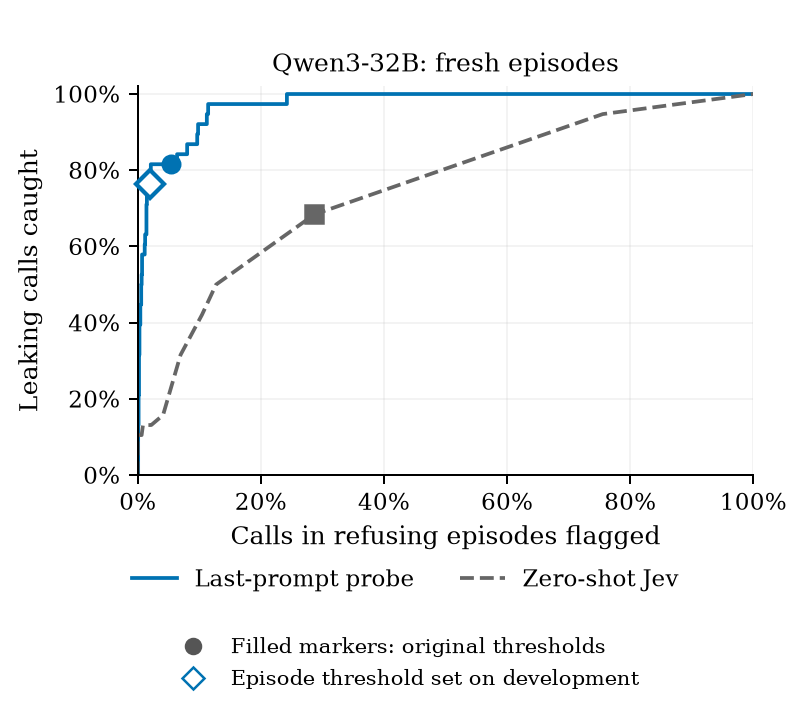
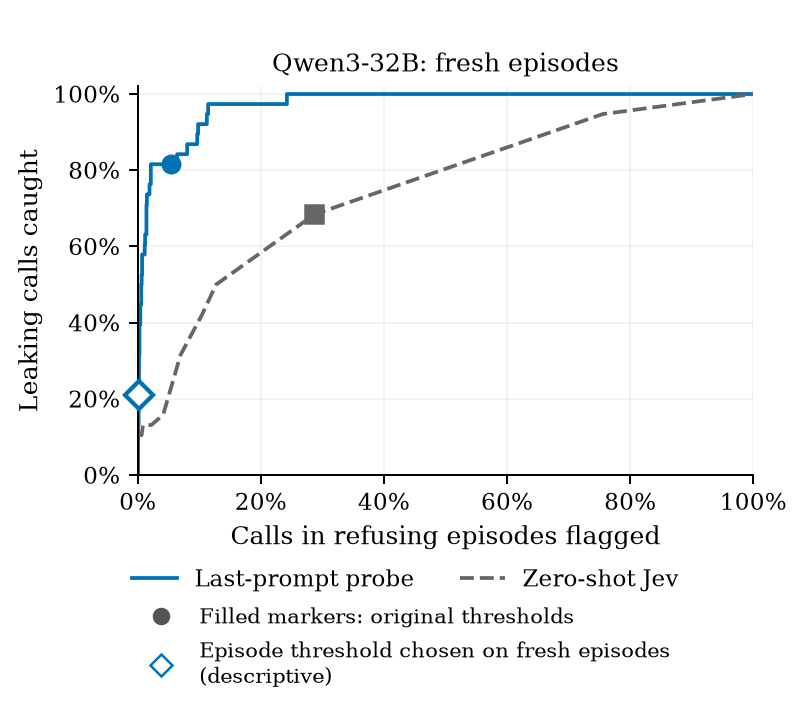
Use final descriptive episode calibration and fit its table

diff --git a/paper-arxiv/figures/src/make_main_panels.py b/paper-arxiv/figures/src/make_main_panels.py
@@ -13,7 +13,7 @@ ROOT = Path(__file__).resolve().parents[3]
 OUT = ROOT / 'paper-arxiv/figures'
 TRAJECTORY = ROOT / 'runs/20261026-2254-e05-arxiv-score-trajectories/metrics.json'
 ALARMS = ROOT / 'runs/20261026-2252-e05-arxiv-alarm-tradeoffs'
-EPISODE = ROOT / 'runs/20261027-0047-e05-arxiv-episode-calibration/metrics.json'
+EPISODE = ROOT / 'runs/20261027-0049-e05-arxiv-episode-calibration-descriptive/metrics.json'
 
 
 def save(fig, stem, sources, rows):
@@ -71,7 +71,7 @@ def alarms():
                 color=color, ls=ls, lw=1.5, label='Zero-shot Jev' if name=='Jev' else name)
         ax.plot(op['refusing_call_alarm'], op['leaking_call_alarm'], marker=marker, color=color, ms=7)
     episode = json.loads(EPISODE.read_text())['qwen_probe']
-    assert episode['calibration_status'] == 'development_refusing_calibration'
+    assert episode['calibration_status'] == 'descriptive_fresh_refusing_calibration'
     point = episode['episode_calibrated']
     ax.plot(point['refusing_calls']['rate'], point['leaking_calls']['rate'],
             marker='D', mfc='white', mec=MODEL_COLORS['qwen'], mew=1.7, ms=8,
@@ -85,10 +85,10 @@ def alarms():
         Line2D([], [], marker='o', color='#555555', ls='none',
                label='Filled markers: original thresholds'),
         Line2D([], [], marker='D', mfc='white', mec=MODEL_COLORS['qwen'], ls='none',
-               label='Episode threshold set on development')],
+               label='Episode threshold chosen on fresh episodes\n(descriptive)')],
         loc='lower center', bbox_to_anchor=(.5,.015), ncol=1, frameon=False, fontsize=8.5)
     rows.append(dict(panel='Qwen: fresh episodes',
-                     detector='Last-prompt probe: development episode-calibrated marker',
+                     detector='Last-prompt probe: descriptive episode-calibrated marker',
                      threshold_offset=episode['episode_threshold']-episode['original_threshold'],
                      leaks_caught=point['leaking_calls']['rate'],
                      refusing_alarm=point['refusing_calls']['rate']))

diff --git a/paper-arxiv/tables/episode_calibration.tex b/paper-arxiv/tables/episode_calibration.tex
@@ -1,5 +1,5 @@
 % Generated by generate_tables.py; edit registry table configuration.
-\begin{tabular}{@{}llrrrrrrr@{}}
+\begin{tabular}{@{}>{\raggedright\arraybackslash}p{0.13\linewidth}>{\raggedright\arraybackslash}p{0.1\linewidth}>{\raggedright\arraybackslash}p{0.088\linewidth}>{\raggedright\arraybackslash}p{0.088\linewidth}>{\raggedright\arraybackslash}p{0.088\linewidth}>{\raggedright\arraybackslash}p{0.088\linewidth}>{\raggedright\arraybackslash}p{0.088\linewidth}>{\raggedright\arraybackslash}p{0.088\linewidth}>{\raggedright\arraybackslash}p{0.088\linewidth}@{}}
 \toprule
 Detector & Cutoff & Precision & Leak calls & Leak eps. & Ref. calls & Ref. eps. & Ctrl. calls & Ctrl. eps. \\
 \midrule

diff --git a/paper-arxiv/generate_tables.py b/paper-arxiv/generate_tables.py
@@ -8,6 +8,7 @@ NAMES=['datasets','behaviour_by_scenario','labels','replay','fresh','robust_call
 WRAPPED_WIDTHS = {
     'alarms': [.14, .12, .19, .11, .12, .14],
     'history': [.19, .20, .22, .28],
+    'episode_calibration': [.13, .10, .088, .088, .088, .088, .088, .088, .088],
 }
 
 def columns(name, default):
